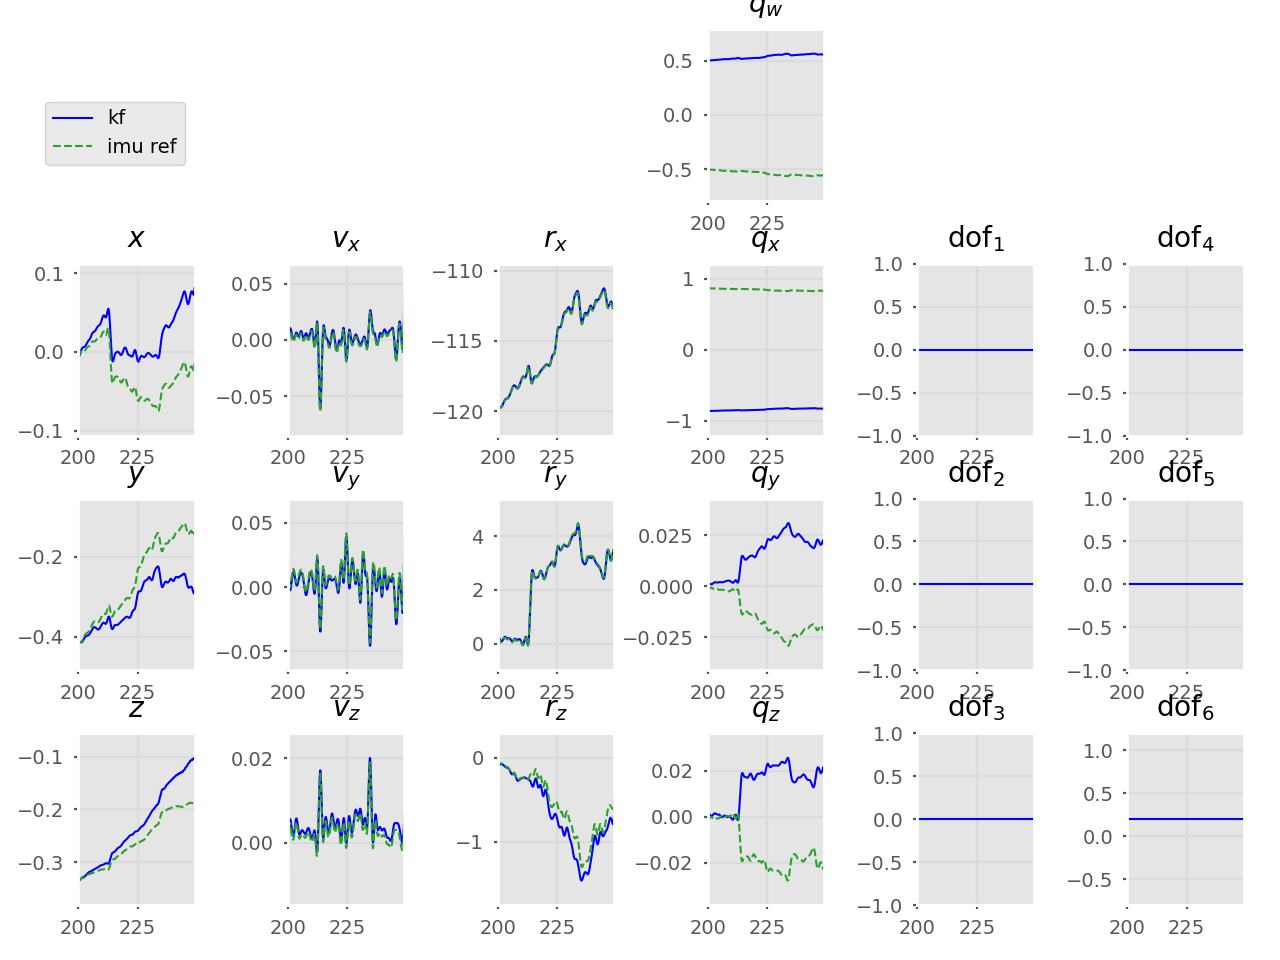
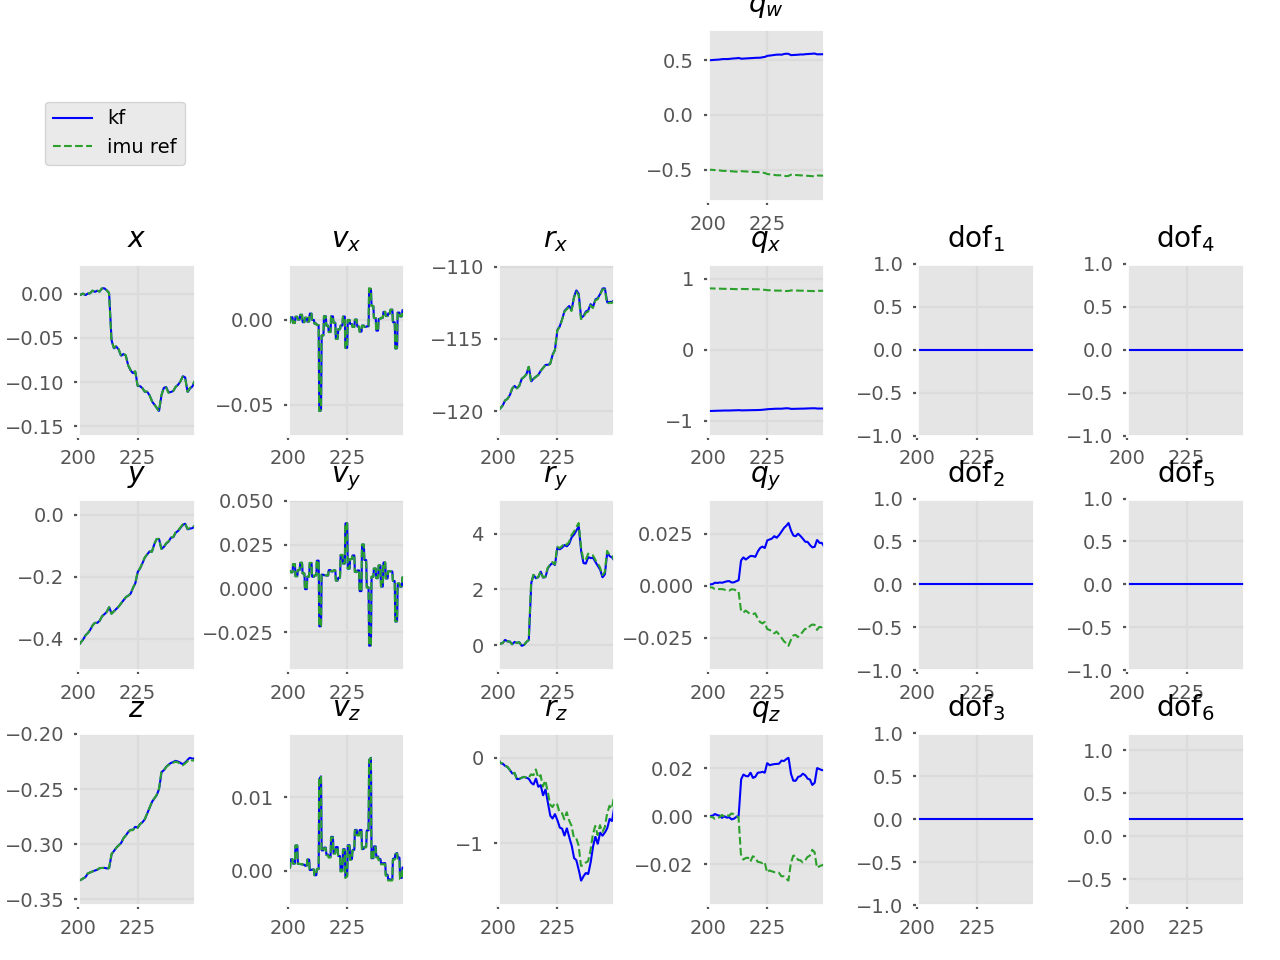
new plots after lin interp

diff --git a/readme.md b/readme.md
@@ -25,6 +25,24 @@ e.g. `min_row, min_col = 0` and `max_row, max_col = 3` will plot the gain matrix
 Optional: for plot labels, the boolean option `index_from_zero` [can be set](https://github.com/feudalism/dvi-ekf/blob/95afc6e5996ef68fc3ec3b39d4f063dd8248ce6e/main.py#L85).
 
 ## Current results
+### Trajectory from monocular SLAM propagation
+P + U | P + U | P + U
+---   | ---   | --- |
+`stdev_a, stdev_om = 1e-3`  | `stdev_a, stdev_om = 1e-3` | `stdev_a, stdev_om = 1e-3`  
+**`cov_p = 1000`** | **`cov_p = 0.1`**  | **`cov_p = 1e-6`**
+`cov_q = 0.05` | `cov_q = 0.05` | `cov_q = 0.05`
+![](img/kf_from_prop_upd_Rp1000.0_Rq0.05_imu.png) | ![](img/kf_from_prop_upd_Rp0.1_Rq0.05_imu.png) | ![](img/kf_mono_upd_Rp1e-06_Rq0.05_imu.png)
+![](img/kf_from_prop_upd_Rp1000.0_Rq0.05_cam.png) | ![](img/kf_from_prop_upd_Rp0.1_Rq0.05_cam.png) | ![](img/kf_mono_upd_Rp1e-06_Rq0.05_cam.png)
+
+### Monocular SLAM trajectory
+P only  | P + U | P + U | P + U
+---     | ---   | ---   | --- |
+&nbsp;  | `stdev_a, stdev_om = 1e-3`  | `stdev_a, stdev_om = 1e-3` | `stdev_a, stdev_om = 1e-3`  
+&nbsp;  | **`cov_p = 1000`** | **`cov_p = 0.1`**  | **`cov_p = 1e-6`**
+&nbsp;  | `cov_q = 0.05` | `cov_q = 0.05` | `cov_q = 0.05`
+![](img/kf_mono_prop_imu.png) | ![](img/kf_mono_upd_Rp1000.0_Rq0.05_imu.png) | ![](img/kf_mono_upd_Rp0.1_Rq0.05_imu.png) | ![](img/kf_mono_upd_Rp1e-06_Rq0.05_imu.png)
+![](img/kf_mono_prop_cam.png) | ![](img/kf_mono_upd_Rp1000.0_Rq0.05_cam.png) | ![](img/kf_mono_upd_Rp0.1_Rq0.05_cam.png) | ![](img/kf_mono_upd_Rp1e-06_Rq0.05_cam.png)
+
 ### Simple trajectory
 Camera moves in x direction, no rotations.
 
@@ -35,15 +53,6 @@ P only  | P + U | P + U
 &nbsp;  | `cov_q = 0.05` | `cov_q = 0.05` 
 ![](img/kf_transx_prop_imu.png) | ![](img/kf_transx_upd_Rp1000.0_Rq0.05_imu.png) | ![](img/kf_transx_upd_Rp0.1_Rq0.05_imu.png)
 ![](img/kf_transx_prop_cam.png) | ![](img/kf_transx_upd_Rp1000.0_Rq0.05_cam.png) | ![](img/kf_transx_upd_Rp0.1_Rq0.05_cam.png)
-
-### Monocular SLAM trajectory
-P only  | P + U | P + U | P + U
----     | ---   | ---   | --- |
-&nbsp;  | `stdev_a, stdev_om = 1e-3`  | `stdev_a, stdev_om = 1e-3` | `stdev_a, stdev_om = 1e-3`  
-&nbsp;  | **`cov_p = 1000`** | **`cov_p = 0.1`**  | **`cov_p = 1e-6`**
-&nbsp;  | `cov_q = 0.05` | `cov_q = 0.05` | `cov_q = 0.05`
-![](img/kf_mono_prop_imu.png) | ![](img/kf_mono_upd_Rp1000.0_Rq0.05_imu.png) | ![](img/kf_mono_upd_Rp0.1_Rq0.05_imu.png) | ![](img/kf_mono_upd_Rp1e-06_Rq0.05_imu.png)
-![](img/kf_mono_prop_cam.png) | ![](img/kf_mono_upd_Rp1000.0_Rq0.05_cam.png) | ![](img/kf_mono_upd_Rp0.1_Rq0.05_cam.png) | ![](img/kf_mono_upd_Rp1e-06_Rq0.05_cam.png)
 
 ## Probe
 ```
